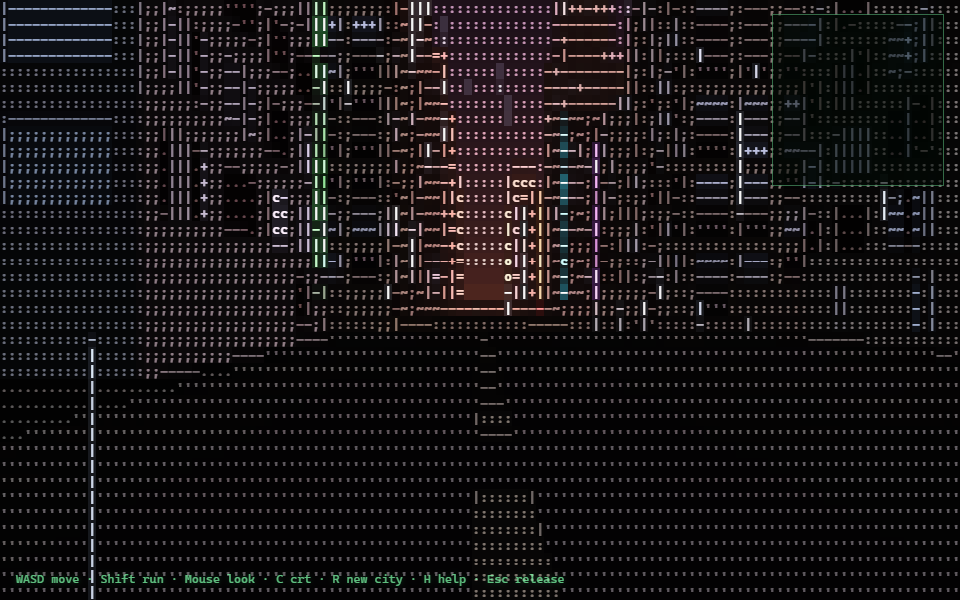
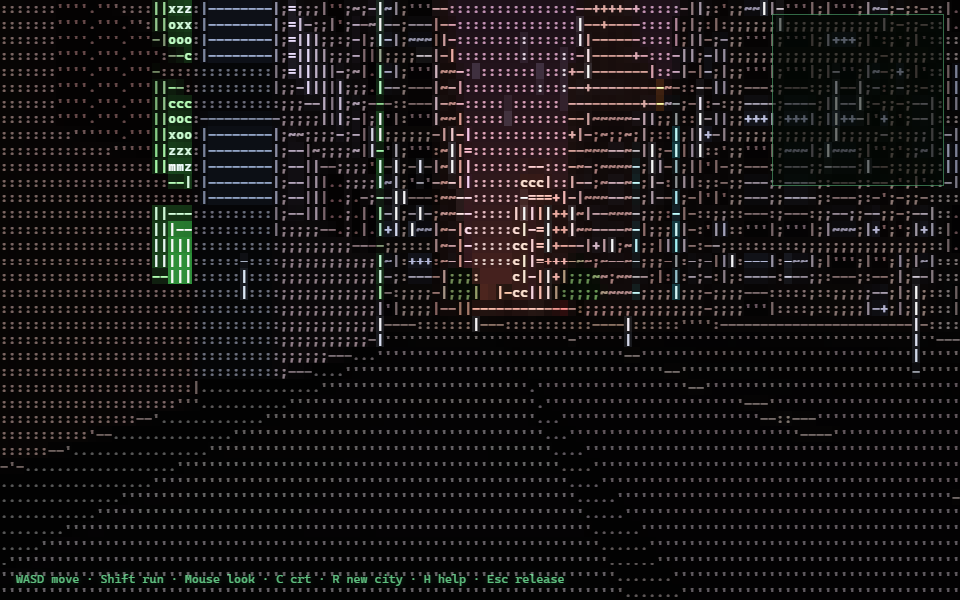
Fix tree culling bug (shared geometry bounding spheres), natural multi-sphere foliage, wide sidewalks with curbs and street trees, spawn on sidewalk, car-vs-player collision

diff --git a/src/world/world.ts b/src/world/world.ts
@@ -13,7 +13,7 @@ export class World {
   private queue: [number, number][] = [];
   private baseBox: THREE.BoxGeometry;
   private trunkGeo: THREE.CylinderGeometry;
-  private crownGeo: THREE.ConeGeometry;
+  private foliageGeo: THREE.SphereGeometry;
   private parkGeo: THREE.PlaneGeometry;
   buildingMat: THREE.ShaderMaterial;
   propsMat: THREE.ShaderMaterial;
@@ -23,7 +23,7 @@ export class World {
     this.propsMat = makePropsMaterial();
     this.baseBox = new THREE.BoxGeometry(1, 1, 1);
     this.trunkGeo = new THREE.CylinderGeometry(0.22, 0.3, 2.4, 5);
-    this.crownGeo = new THREE.ConeGeometry(1.7, 3.6, 6);
+    this.foliageGeo = new THREE.SphereGeometry(1, 7, 5);
     this.parkGeo = new THREE.PlaneGeometry(CITY.blockPitch - 12, CITY.blockPitch - 12);
     this.parkGeo.rotateX(-Math.PI / 2);
   }
@@ -109,26 +109,50 @@ export class World {
 
     if (data.trees.length) {
       const n = data.trees.length;
-      const trunks = new THREE.InstancedMesh(this.trunkGeo, this.propsMat, n);
-      const crowns = new THREE.InstancedMesh(this.crownGeo, this.propsMat, n);
+      const S = 4; // foliage spheres per tree
+      // Geometries are cloned per chunk: a shared geometry would have its
+      // bounding sphere overwritten by the latest chunk spawned, wrongly
+      // frustum-culling every earlier chunk's trees.
+      const trunkGeo = this.trunkGeo.clone();
+      const foliageGeo = this.foliageGeo.clone();
+      const trunks = new THREE.InstancedMesh(trunkGeo, this.propsMat, n);
+      const foliage = new THREE.InstancedMesh(foliageGeo, this.propsMat, n * S);
       const m = new THREE.Matrix4();
+      const col = new THREE.Color();
+      // natural foliage: one big crown sphere + 3 smaller offset ones
+      const blobs: [number, number, number, number][] = [
+        [0, 3.35, 0, 1.4],
+        [0.85, 2.5, 0.55, 0.95],
+        [-0.8, 2.65, -0.6, 1.0],
+        [0.15, 4.3, -0.3, 0.85],
+      ];
+      let fi = 0;
       for (let i = 0; i < n; i++) {
         const t = data.trees[i];
         m.makeScale(t.s, t.s, t.s); m.setPosition(t.x, 1.2 * t.s, t.z);
         trunks.setMatrixAt(i, m); trunks.setColorAt(i, new THREE.Color(0.23, 0.16, 0.1));
-        m.makeScale(t.s, t.s * (0.8 + hash2(this.seedNum, cx + i, cz) * 0.5), t.s);
-        m.setPosition(t.x, 2.4 * t.s + 1.6 * t.s, t.z);
-        crowns.setMatrixAt(i, m);
-        crowns.setColorAt(i, new THREE.Color(0.13 + hash2(this.seedNum, i, cx) * 0.1, 0.3 + hash2(this.seedNum, i, cz) * 0.14, 0.12));
+        const autumn = hash2(this.seedNum, cx + i, cz * 11) < 0.07;
+        for (let b = 0; b < S; b++) {
+          const [ox, oy, oz, r] = blobs[b];
+          const j = 0.85 + hash2(this.seedNum, cx * 5 + i * S + b, cz * 9) * 0.35;
+          m.makeScale(r * t.s * j, r * t.s * j, r * t.s * j);
+          m.setPosition(t.x + ox * t.s, oy * t.s, t.z + oz * t.s);
+          foliage.setMatrixAt(fi, m);
+          const gp = 0.24 + hash2(this.seedNum, i * S + b + 1, cx + cz * 7) * 0.15;
+          if (autumn) col.setRGB(gp * 2.1, gp * 1.1, gp * 0.25);
+          else col.setRGB(gp * 0.55, gp * 1.5, gp * 0.5);
+          foliage.setColorAt(fi, col);
+          fi++;
+        }
       }
       this.setChunkBounds(trunks, cx, cz, 40);
-      this.setChunkBounds(crowns, cx, cz, 40);
-      group.add(trunks, crowns);
+      this.setChunkBounds(foliage, cx, cz, 40);
+      group.add(trunks, foliage);
     }
 
     if (data.park) {
       // park lawn as a 1-instance InstancedMesh so instanceColor carries the tint
-      const one = new THREE.InstancedMesh(this.parkGeo, this.propsMat, 1);
+      const one = new THREE.InstancedMesh(this.parkGeo.clone(), this.propsMat, 1);
       const m = new THREE.Matrix4(); m.setPosition(ox, 0.02, oz);
       one.setMatrixAt(0, m); one.setColorAt(0, new THREE.Color(0.09, 0.2, 0.08));
       this.setChunkBounds(one, cx, cz, 40);
@@ -150,8 +174,7 @@ export class World {
     c.group.traverse((o) => {
       const im = o as THREE.InstancedMesh;
       if (im.isInstancedMesh) {
-        if (im.geometry !== this.baseBox && im.geometry !== this.trunkGeo &&
-            im.geometry !== this.crownGeo && im.geometry !== this.parkGeo) im.geometry.dispose();
+        im.geometry.dispose(); // every chunk mesh owns a cloned geometry
         if (im.instanceColor) im.instanceColor = null as unknown as THREE.InstancedBufferAttribute;
       }
     });

diff --git a/src/entities/traffic.ts b/src/entities/traffic.ts
@@ -38,6 +38,7 @@ export class Traffic {
   private e = new THREE.Euler();
   private v = new THREE.Vector3();
   private fwd = new THREE.Vector3();
+  private obst = new Float32Array(0);
   private rng: () => number;
 
   constructor(scene: THREE.Scene, seed: number) {
@@ -86,6 +87,7 @@ export class Traffic {
   update(dt: number, px: number, pz: number) {
     const P = CITY.blockPitch;
     const n = this.cars.length;
+    if (this.obst.length !== n * 4) this.obst = new Float32Array(n * 4);
     for (let i = 0; i < n; i++) {
       const c = this.cars[i];
       c.along += c.dir * c.speed * dt;
@@ -98,6 +100,10 @@ export class Traffic {
       const roadC = c.roadIdx * P + 3 + c.lane;
       const wx = c.axis === 0 ? roadC : c.along;
       const wz = c.axis === 0 ? c.along : roadC;
+      this.obst[i * 4] = wx; this.obst[i * 4 + 1] = wz;
+      // half-extents of the axis-aligned footprint (car length along travel axis)
+      this.obst[i * 4 + 2] = c.axis === 0 ? 1.0 : 2.15;
+      this.obst[i * 4 + 3] = c.axis === 0 ? 2.15 : 1.0;
       const rotY = c.axis === 0 ? (c.dir === 1 ? 0 : Math.PI) : (c.dir === 1 ? -Math.PI / 2 : Math.PI / 2);
       this.e.set(0, rotY, 0); this.q.setFromEuler(this.e);
       this.fwd.set(0, 0, 1).applyQuaternion(this.q);
@@ -115,5 +121,17 @@ export class Traffic {
     this.bodies.instanceMatrix.needsUpdate = true;
     this.heads.instanceMatrix.needsUpdate = true;
     this.tails.instanceMatrix.needsUpdate = true;
+  }
+
+  // Axis-aligned car footprints near (px,pz), flattened [x,z,hx,hz] —
+  // dynamic obstacles so traffic pushes the player instead of clipping through.
+  obstaclesNear(px: number, pz: number): number[] {
+    const out: number[] = [];
+    for (let i = 0; i < this.obst.length; i += 4) {
+      if (Math.abs(this.obst[i] - px) < 6 && Math.abs(this.obst[i + 1] - pz) < 6) {
+        out.push(this.obst[i], this.obst[i + 1], this.obst[i + 2], this.obst[i + 3]);
+      }
+    }
+    return out;
   }
 }

diff --git a/src/world/citygen.ts b/src/world/citygen.ts
@@ -47,8 +47,8 @@ export function genChunk(seed: number, cx: number, cz: number): ChunkData {
   // landmark? one special tower per rare chunk
   const isLandmark = hash2(seed ^ 0xbeef, cx, cz) < 0.02;
 
-  // 2x2 lots inside the block, keeping clear of sidewalks
-  const inner0 = 6 + 3.4, inner1 = P - 6 - 3.4;
+  // 2x2 lots inside the block, keeping clear of the (wide) sidewalks
+  const inner0 = 6 + 4.8, inner1 = P - 6 - 4.8;
   const lotW = (inner1 - inner0) / 2;
   for (let lx = 0; lx < 2; lx++) for (let lz = 0; lz < 2; lz++) {
     const r0 = hash2(seed, cx * 2 + lx, cz * 2 + lz);
@@ -60,7 +60,7 @@ export function genChunk(seed: number, cx: number, cz: number): ChunkData {
 
     if (isLandmark && lx === 0 && lz === 0) {
       const h = 120 + r2 * 70;
-      const s = 13 + r3 * 5;
+      const s = 12 + r3 * 3;
       const t: number[] = [0.3, 0.34, 0.44];
       data.boxes.push(mk(lotCX, lotCZ, s, h, s, t, r0));
       data.boxes.push(mk(lotCX, lotCZ, s * 0.55, h * 0.32, s * 0.55, t, r0, h));
@@ -98,6 +98,19 @@ export function genChunk(seed: number, cx: number, cz: number): ChunkData {
     if (sy > 46) {
       data.boxes.push(mk(lotCX, lotCZ, sx * 0.68, sy * 0.34, sz * 0.68, col, r3, sy));
       if (sy > 78) data.boxes.push(mk(lotCX, lotCZ, sx * 0.42, sy * 0.28, sz * 0.42, col, r3, sy * 1.34));
+    }
+  }
+
+  // street trees planted on the sidewalks (sparse downtown, lush elsewhere)
+  {
+    const density = district === "downtown" ? 0.3 : 0.6;
+    for (let k = 0; k < 4; k++) {
+      if (hash2(seed, cx * 17 + k, cz * 5) < density) {
+        data.trees.push({ x: ox + 9.2, z: oz + 18 + k * 11 + hash2(seed, cx + k, cz * 3) * 4, s: 0.75 + hash2(seed, cx * 2 + k, cz) * 0.4 });
+      }
+      if (hash2(seed, cx * 5, cz * 17 + k) < density) {
+        data.trees.push({ x: ox + 18 + k * 11 + hash2(seed, cx * 3, cz + k) * 4, z: oz + 9.2, s: 0.75 + hash2(seed, cx, cz * 2 + k) * 0.4 });
+      }
     }
   }
   return data;

diff --git a/src/main.ts b/src/main.ts
@@ -51,9 +51,21 @@ async function main() {
   const bloom = new Bloom();
   const hud = new Hud(hudEl);
 
-  // Spawn centered on a north-south road, facing ALONG it (whichever end
-  // holds downtown) so the road's vanishing point sits dead-center.
-  const sx = 3, sz = 14;
+  // Spawn on the west sidewalk of a north-south road, facing ALONG it
+  // (whichever end holds downtown). ?at=park starts inside the nearest park.
+  let sx = 7.2, sz = 14;
+  if (params.get("at") === "park") {
+    const P0 = CITY.blockPitch;
+    outer: for (let r = 0; r < 10; r++) {
+      for (let cx = -r; cx <= r; cx++) for (let cz = -r; cz <= r; cz++) {
+        if (Math.max(Math.abs(cx), Math.abs(cz)) !== r) continue;
+        if (districtAt(seedNum, cx * P0 + 26, cz * P0 + 26) === "park") {
+          sx = cx * P0 + 26; sz = cz * P0 + 26;
+          break outer;
+        }
+      }
+    }
+  }
   const dirs: [number, number, number][] = [[0, -1, 0], [0, 1, Math.PI]];
   let yaw = 0, best = -1;
   for (const [dx, dz, y] of dirs) {
@@ -132,7 +144,7 @@ async function main() {
     traffic.update(dt, player.x, player.z);
 
     if (bloom.controlUnlocked) {
-      player.update(dt, input, camera, world);
+      player.update(dt, input, camera, world, traffic.obstaclesNear(player.x, player.z));
     } else {
       camera.position.set(player.x, PLAYER.eye, player.z);
       camera.rotation.order = "YXZ";

diff --git a/src/render/materials.ts b/src/render/materials.ts
@@ -227,13 +227,16 @@ export function makeGroundMaterial(): THREE.ShaderMaterial {
           }
           // crosswalks near intersection approaches
           float qA = roadX ? rz : rx;   // crossing road coord
-          bool nearCross = (qA > 8.6 && qA < 10.9) || (qA > uPitch - 10.9 && qA < uPitch - 8.6);
+          bool nearCross = (qA > 10.2 && qA < 12.5) || (qA > uPitch - 12.5 && qA < uPitch - 10.2);
           if (!inInter && nearCross && mod(lane, uPitch / 26.0) < uPitch / 52.0) col = vec3(0.4, 0.39, 0.34);
           spec = 1.0;
-        } else if (rx < 6.0 + 2.6 || rx > uPitch - 8.6 || rz < 6.0 + 2.6 || rz > uPitch - 8.6) {
-          // sidewalk + expansion joints
-          col = vec3(0.19, 0.19, 0.2) * (0.9 + grain * 1.6);
+        } else if (rx < 6.0 + 4.2 || rx > uPitch - 10.2 || rz < 6.0 + 4.2 || rz > uPitch - 10.2) {
+          // wide sidewalk + expansion joints
+          col = vec3(0.2, 0.2, 0.21) * (0.9 + grain * 1.6);
           if (mod(p.x, 4.0) < 0.06 || mod(p.z, 4.0) < 0.06) col *= 0.8;
+          // curb: darker strip along the road edge
+          float curbD = min(min(rx - 6.0, uPitch - 6.0 - rx), min(rz - 6.0, uPitch - 6.0 - rz));
+          if (curbD < 0.4) col *= 0.62;
           spec = 0.4;
         } else {
           // block interior concrete

diff --git a/src/player/player.ts b/src/player/player.ts
@@ -13,7 +13,7 @@ export class Player {
 
   constructor(public yaw = 0, public pitch = -0.03) {}
 
-  update(dt: number, input: Input, camera: THREE.PerspectiveCamera, world: World) {
+  update(dt: number, input: Input, camera: THREE.PerspectiveCamera, world: World, obstacles?: number[]) {
     input.applyLook();
     const [f, s] = input.moveAxis();
     const speed = input.running ? PLAYER.run : PLAYER.walk;
@@ -29,6 +29,18 @@ export class Player {
     let nx = this.x + this.velX * dt;
     let nz = this.z + this.velZ * dt;
     [nx, nz] = world.collide(nx, nz, PLAYER.radius);
+    // dynamic obstacles (cars): circle pushed out of axis-aligned footprints
+    if (obstacles) {
+      for (let i = 0; i < obstacles.length; i += 4) {
+        const dx = nx - obstacles[i], dz = nz - obstacles[i + 1];
+        const ex = obstacles[i + 2] + PLAYER.radius, ez = obstacles[i + 3] + PLAYER.radius;
+        if (Math.abs(dx) < ex && Math.abs(dz) < ez) {
+          const pushX = ex - Math.abs(dx), pushZ = ez - Math.abs(dz);
+          if (pushX < pushZ) nx = obstacles[i] + Math.sign(dx || 1) * ex;
+          else nz = obstacles[i + 1] + Math.sign(dz || 1) * ez;
+        }
+      }
+    }
     this.x = nx; this.z = nz;
 
     const spd = Math.hypot(this.velX, this.velZ);
